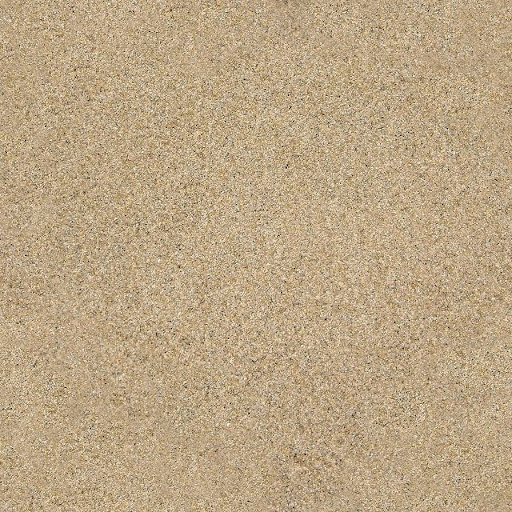
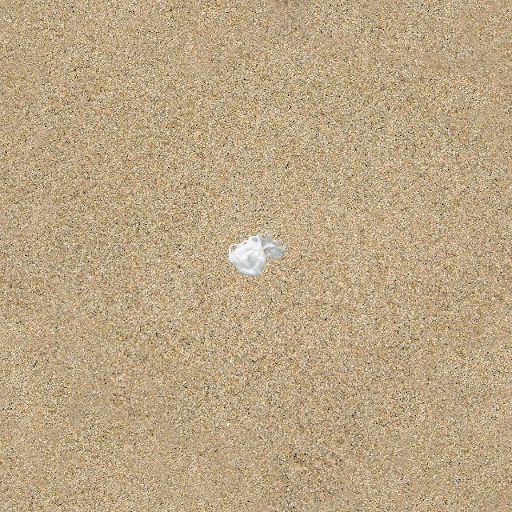
Update Rocks

Changed region(s): [[0.4375, 0.4375, 0.5625, 0.5625]]

diff --git a/project/MyScene.js b/project/MyScene.js
@@ -56,7 +56,7 @@ export class MyScene extends CGFscene {
         this.displaySeaFloor = false;
 
         this.selectedTexture = 0;
-        this.texturesID = { 'Demo': 0, 'Test': 1 };
+        this.texturesID = { 'Demo': 0, 'Water': 1, 'Test':2 };
 
         this.scaleFactor = 1;
         this.speedFactor = 1;
@@ -94,6 +94,13 @@ export class MyScene extends CGFscene {
         this.textureFront_test = new CGFtexture(this, 'images/test_cubemap/nz.png');
         this.textureBack_test = new CGFtexture(this, 'images/test_cubemap/pz.png');
 
+        this.textureBottom_water = new CGFtexture(this, 'images/underwater_cubemap/bottom.jpg');
+        this.textureTop_water = new CGFtexture(this, 'images/underwater_cubemap/top.jpg');
+        this.textureLeft_water = new CGFtexture(this, 'images/underwater_cubemap/left.jpg');
+        this.textureRight_water = new CGFtexture(this, 'images/underwater_cubemap/right.jpg');
+        this.textureFront_water = new CGFtexture(this, 'images/underwater_cubemap/front.jpg');
+        this.textureBack_water = new CGFtexture(this, 'images/underwater_cubemap/back.jpg');
+
 
         this.textureBody = new CGFtexture(this, 'images/fish/fishBody.png');
     }
@@ -109,6 +116,14 @@ export class MyScene extends CGFscene {
 
     updateTextures(){
         if(this.selectedTexture == 1){
+            this.textureBottom = this.textureBottom_water;
+            this.textureTop = this.textureTop_water;
+            this.textureLeft = this.textureLeft_water;
+            this.textureRight = this.textureRight_water;
+            this.textureFront = this.textureFront_water;
+            this.textureBack = this.textureBack_water;
+        }
+        else if(this.selectedTexture == 2){
             this.textureBottom = this.textureBottom_test;
             this.textureTop = this.textureTop_test;
             this.textureLeft = this.textureLeft_test;
@@ -120,6 +135,7 @@ export class MyScene extends CGFscene {
             this.setDefaultTextures();
         }
     }
+    
     initLights() {
         this.lights[0].setPosition(15, 2, 5, 1);
         this.lights[0].setDiffuse(1.0, 1.0, 1.0, 1.0);
@@ -128,7 +144,7 @@ export class MyScene extends CGFscene {
     }
 
     initCameras() {
-        this.camera = new CGFcamera(0.4, 0.1, 500, vec3.fromValues(15, 15, 15), vec3.fromValues(0, 0, 0));
+        this.camera = new CGFcamera(0.6, 0.1, 500, vec3.fromValues(15, 15, 15), vec3.fromValues(0, 0 , 0));
     }
 
     setDefaultAppearance() {
@@ -249,9 +265,9 @@ export class MyScene extends CGFscene {
             this.cubeMap.display();
         }
 
-        if(this.displaySeaFloor){
+        //if(this.displaySeaFloor){
             this.seaFloor.display();
-        }
+        //}
          
         // ---- END Primitive drawing section
     }

diff --git a/project/Objects/MySeaFloor.js b/project/Objects/MySeaFloor.js
@@ -6,7 +6,7 @@ export class MySeaFloor extends CGFobject {
     constructor(scene) {
         super(scene);
         this.sand = new MyPlane(this.scene, 50);
-        this.rock = new MyRockSet(this.scene);
+        this.rockSet = new MyRockSet(this.scene, 7);
   
         this.initShaders();
     }
@@ -24,35 +24,20 @@ export class MySeaFloor extends CGFobject {
         this.scene.textureSand.bind(0);
         this.scene.textureSandMap.bind(1);
         this.scene.pushMatrix();
-        this.scene.translate(25,-2.5,25);
-        this.scene.rotate(-Math.PI/2,1,0,0);
-        this.scene.scale(50,50,50);
-        this.sand.display();
-        this.scene.setActiveShader(this.scene.defaultShader);
+            this.scene.translate(25,-2.5,25);
+            this.scene.rotate(-Math.PI/2,1,0,0);
+            this.scene.scale(50,50,50);
+            this.sand.display();
+            this.scene.setActiveShader(this.scene.defaultShader);
         this.scene.popMatrix();
 
-        this.dimensions();
-        
-
-        /*
-        this.scene.pushMatrix();
-        this.scene.setActiveShader(this.scene.shaderSeaFloor));
-        this.scene.materialSandTex.bind(1);
-        this.scene.materialSandMap.bind(2);
-        this.sand.display();
-        this.scene.setActiveShader(this.scene.defaultShader);
-        this.scene.popMatrix();*/
-    }
-    dimensions(){
-        for (var i = 0; i < 5; i++){
-            var scale = Math.random() * 0.2;
-            var trans = Math.random() * 5;
+        for(var i=0;i<this.rockSet.no_rocks;i++){
             this.scene.pushMatrix();
-            this.scene.translate(trans,0,trans);
-            this.scene.rotate(Math.PI/2,0,1,0);
-            this.scene.scale(scale,scale,scale); 
-            this.scene.materialBlack.apply();
-            this.rock.rockSet[i].display();
+                this.scene.translate(this.rockSet.rockSet[i].transX,0,this.rockSet.rockSet[i].transZ);
+                this.scene.rotate(Math.PI/2,0,1,0);
+                this.scene.scale(this.rockSet.rockSet[i].scale,this.rockSet.rockSet[i].scale,this.rockSet.rockSet[i].scale); 
+                this.scene.materialRock.apply();
+                this.rockSet.rockSet[i].display();
             this.scene.popMatrix();
         }
     }

diff --git a/project/Objects/MyRockSet.js b/project/Objects/MyRockSet.js
@@ -8,30 +8,29 @@ import { MyRock } from './MyRock.js';
  * @param scene - Reference to MyScene object
 */
 export class MyRockSet extends CGFobject {
-    constructor(scene) {
+    constructor(scene, no_rocks) {
         super(scene);
         this.rockSet=[];
-        this.scene = scene;
-        for(var i=0;i<5;i++){
-            this.rock = new MyRock(this.scene, 10,10);
+        this.no_rocks = no_rocks;
+        for(var i=0;i<no_rocks;i++){
+            var transX = Math.random()*10;
+            var transZ = Math.random()*10;
+            var scale = Math.random()*0.2;
+            var rot = Math.random();
+            this.rock = new MyRock(scene, 10, 10, scale, transX, transZ, rot);
             this.rockSet.push(this.rock);
         }
+        this.initMaterials();
     }
 
-    update(t){
-        this.tail.angle = Math.sin(t) * Math.PI/8;
-        this.fin.angle =  Math.sin(0.4* t) * 0.2;
-    }
-
-    enableNormalViz(){
-        this.rockSet.enableNormalViz();
-    }
-    
-    disableNormalViz(){
-        this.rockSet.disableNormalViz();   
-    }
- 
-   
+    initMaterials() {
+        this.scene.materialRock = new CGFappearance(this.scene);
+        this.scene.materialRock.setAmbient(0.0, 0.0, 0.0, 0.0);
+        this.scene.materialRock.setDiffuse(0.0, 0.0, 0.0, 0.0);
+        this.scene.materialRock.setSpecular(1.0,1.0,1.0,1.0);
+        this.scene.materialRock.setEmission(0.3, 0.3, 0.3, 1.0);
+        this.scene.materialRock.setShininess(10.0);  
+    }   
 }
 
 

diff --git a/project/Objects/MyRock.js b/project/Objects/MyRock.js
@@ -7,11 +7,15 @@ export class MyRock  extends CGFobject {
    * @param  {integer} slices - number of slices around Y axis
    * @param  {integer} stacks - number of stacks along Y axis, from the center to the poles (half of sphere)
    */
-  constructor(scene, slices, stacks) {
+  constructor(scene, slices, stacks, scale, transX, transZ, rot) {
     super(scene);
     this.latDivs = stacks * 2;
     this.longDivs = slices;
-    this.initBuffers();
+    this.initBuffers(); 
+    this.scale = scale;
+    this.transX = transX;
+    this.transZ = transZ;
+    this.rot = rot;
   }
 
   /**
@@ -34,7 +38,8 @@ export class MyRock  extends CGFobject {
 
     // build an all-around stack at a time, starting on "north pole" and proceeding "south"
     for (let latitude = 0; latitude <= this.latDivs; latitude++) {
-      var sinPhi = Math.sin(phi);
+  
+    var sinPhi = Math.sin(phi);
       var cosPhi = Math.cos(phi);
 
       // in each stack, build all the slices around, starting on longitude 0
